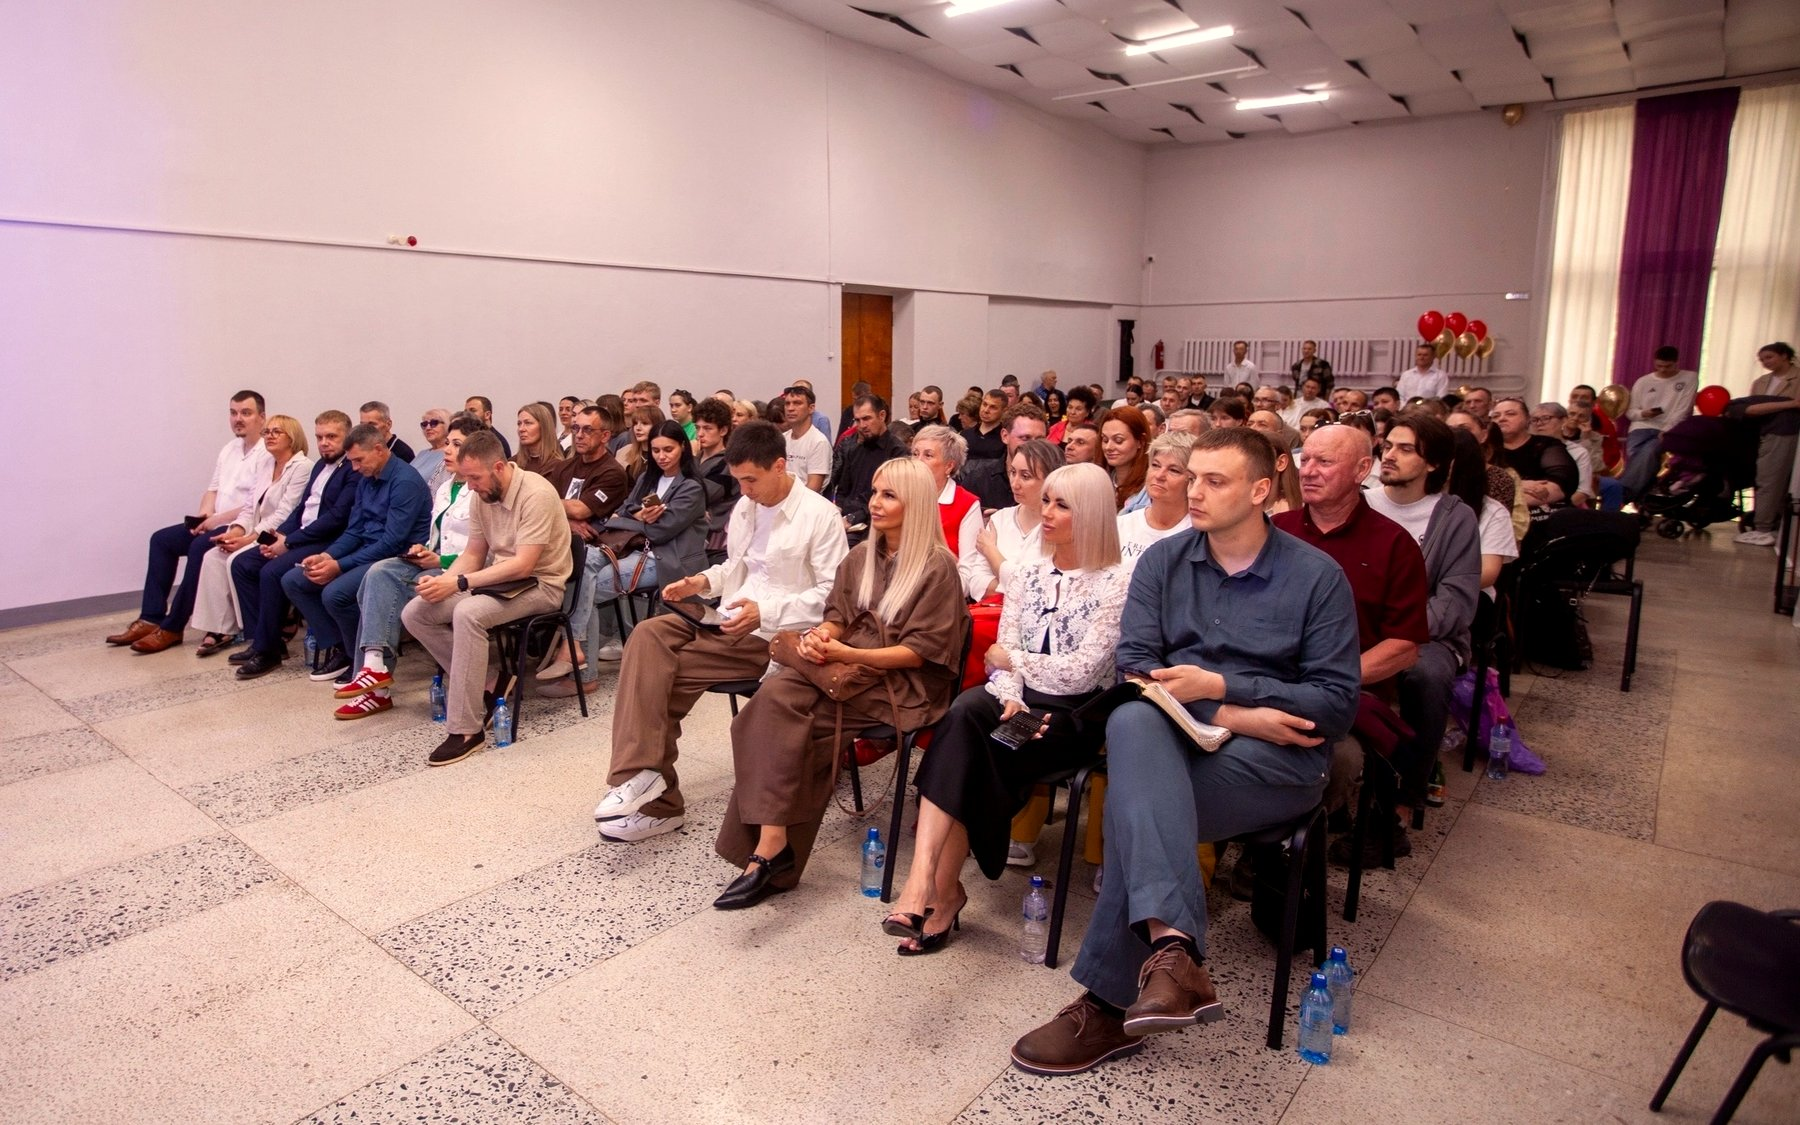
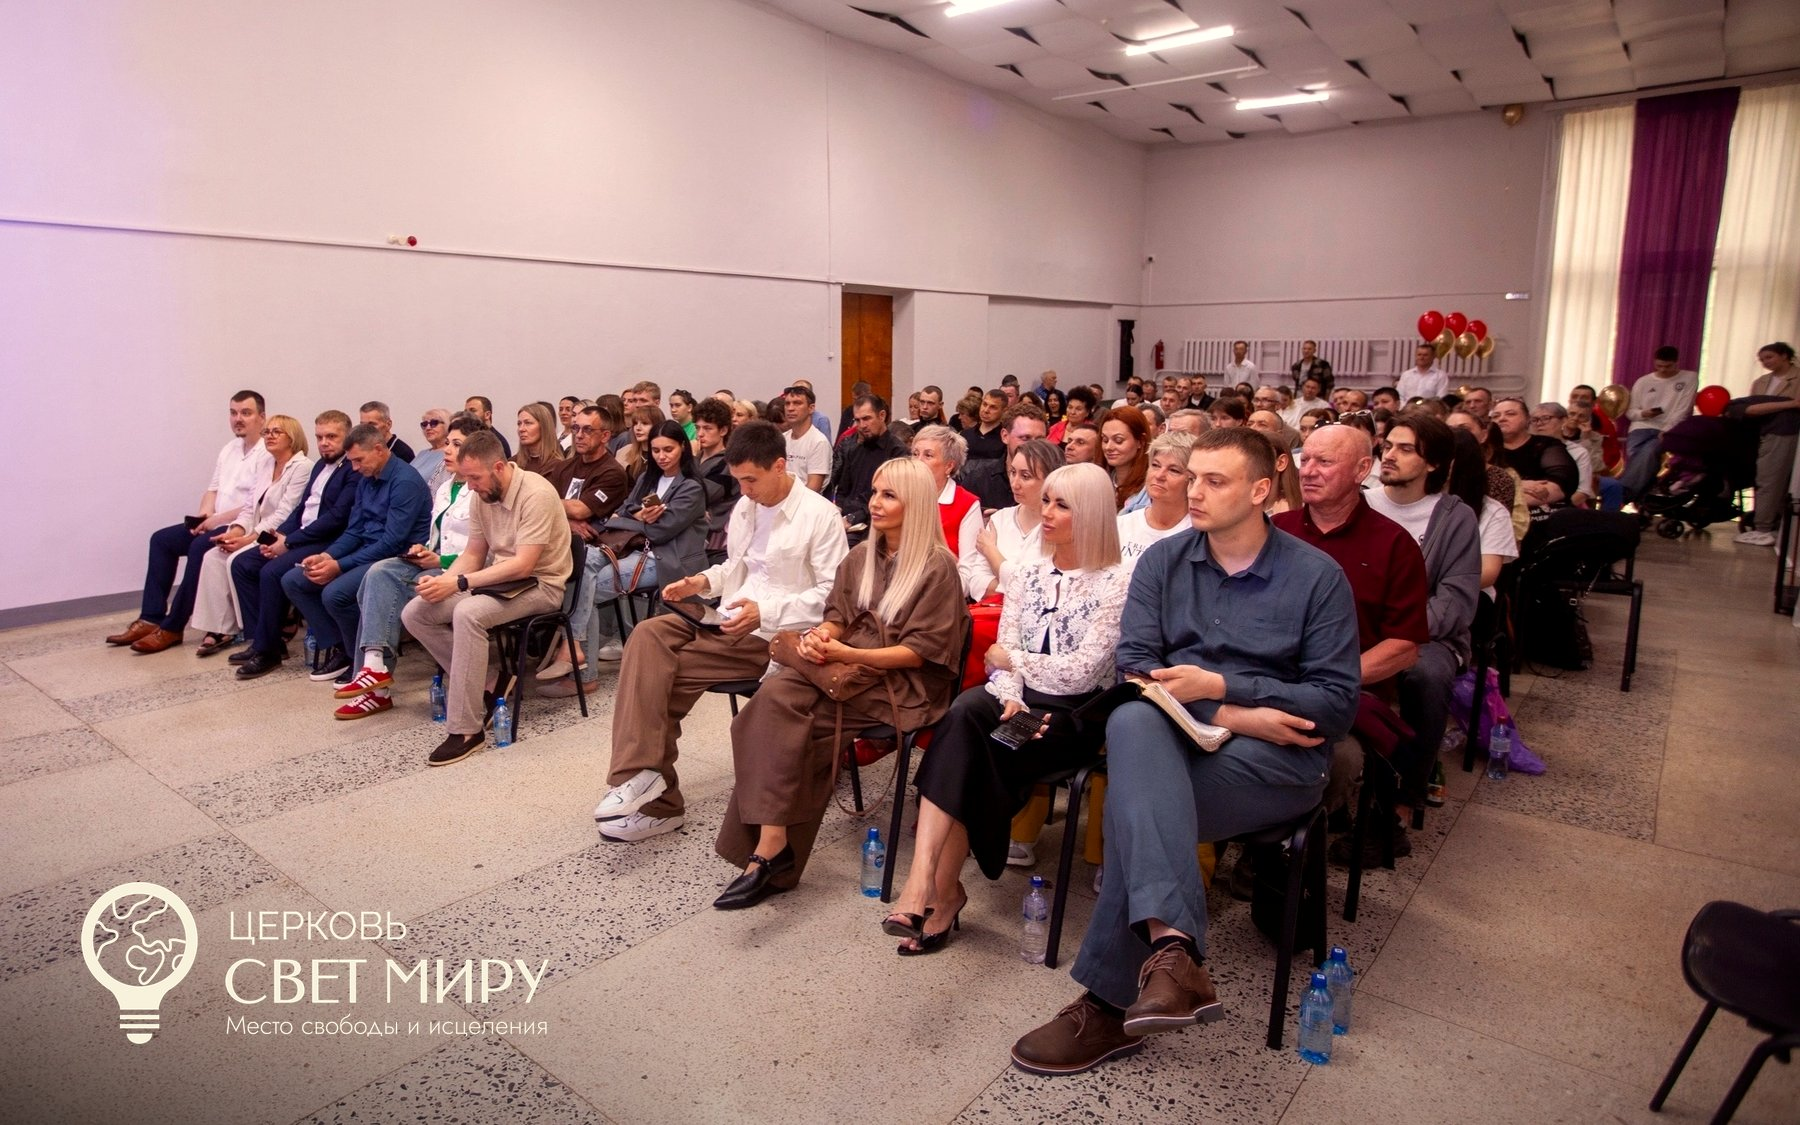
Логотип на фото зала
Затемнение угловое, а не сплошное как у превью ссылки: там поверх
картинки только текст, а здесь под градиентом сидят люди, и топить их
в черноте нельзя. Слева под логотипом плотно, вправо почти сходит
на нет — подпись читается, зал остаётся светлым.

Фото входа оставил без логотипа: там уже оранжевая стрелка, а внизу
слева кусты — знак сел бы в мешанину. Задача того кадра узнать дверь.

Claude-Session: https://claude.ai/code/session_01QcFwhYmrtGhSqoSQEszhUp

Changed region(s): [[0.0, 0.6844, 0.9644, 1.0]]

diff --git a/tools/photo.py b/tools/photo.py
@@ -9,7 +9,10 @@
 
     python3 tools/photo.py portrait исходник.jpg pastor-maksim
     python3 tools/photo.py wide     исходник.jpg entrance
+    python3 tools/photo.py wide     исходник.jpg hall --logo
     python3 tools/photo.py og       исходник.jpg og
+
+Ключ --logo ставит кремовый логотип в левый нижний угол снимка.
 
 Результат кладётся в public/assets/img/photo/ (og — в public/assets/img/).
 Нужен Python 3 и Pillow: pip install Pillow
@@ -89,11 +92,48 @@ def add_og_overlay(img):
     return img.convert('RGB')
 
 
+def add_logo(img, width=0.26, pad=0.045):
+    """Ставит кремовый логотип в левый нижний угол на мягком затемнении.
+
+    Затемнение слабее, чем у превью: там поверх лежит только текст, а здесь
+    под градиентом остаются люди, и их нельзя топить в черноту.
+    """
+    img = img.convert('RGBA')
+    w, h = img.size
+
+    # Затемнение угловое, а не сплошное: слева под логотипом плотное, вправо
+    # почти сходит на нет — так подпись читается, а зал не уходит в темноту.
+    mask = Image.new('L', (w, h), 0)
+    px = mask.load()
+    start = h * 0.55
+    for y in range(int(start), h):
+        v = min(1.0, max(0.0, (y - start) / (h - start))) ** 1.5
+        for x in range(w):
+            side = max(0.0, 1.0 - (x / w) / 0.55) ** 1.4
+            px[x, y] = int(185 * v * (0.28 + 0.72 * side))
+    scrim = Image.new('RGBA', (w, h), (11, 6, 3, 0))
+    scrim.putalpha(mask)
+    img = Image.alpha_composite(img, scrim)
+
+    logo_path = OUT_IMG / 'logo-lockup-cream.png'
+    if not logo_path.exists():
+        print('логотипа нет, ставлю только затемнение')
+        return img.convert('RGB')
+
+    logo = Image.open(logo_path).convert('RGBA')
+    w = int(img.width * width)
+    logo = logo.resize((w, int(logo.height * w / logo.width)), Image.LANCZOS)
+    m = int(img.width * pad)
+    img.paste(logo, (m, img.height - logo.height - m), logo)
+    return img.convert('RGB')
+
+
 def main():
-    if len(sys.argv) != 4 or sys.argv[1] not in PRESETS:
+    if len(sys.argv) not in (4, 5) or sys.argv[1] not in PRESETS:
         sys.exit(__doc__)
 
     preset, src, name = sys.argv[1], Path(sys.argv[2]), sys.argv[3]
+    with_logo = len(sys.argv) == 5 and sys.argv[4] == '--logo'
     if not src.exists():
         sys.exit(f'Нет файла: {src}')
 
@@ -115,6 +155,8 @@ def main():
     img = warm(img)
     if preset == 'og':
         img = add_og_overlay(img)
+    elif with_logo:
+        img = add_logo(img)
 
     jpg = out_dir / f'{name}.jpg'
     webp = out_dir / f'{name}.webp'
